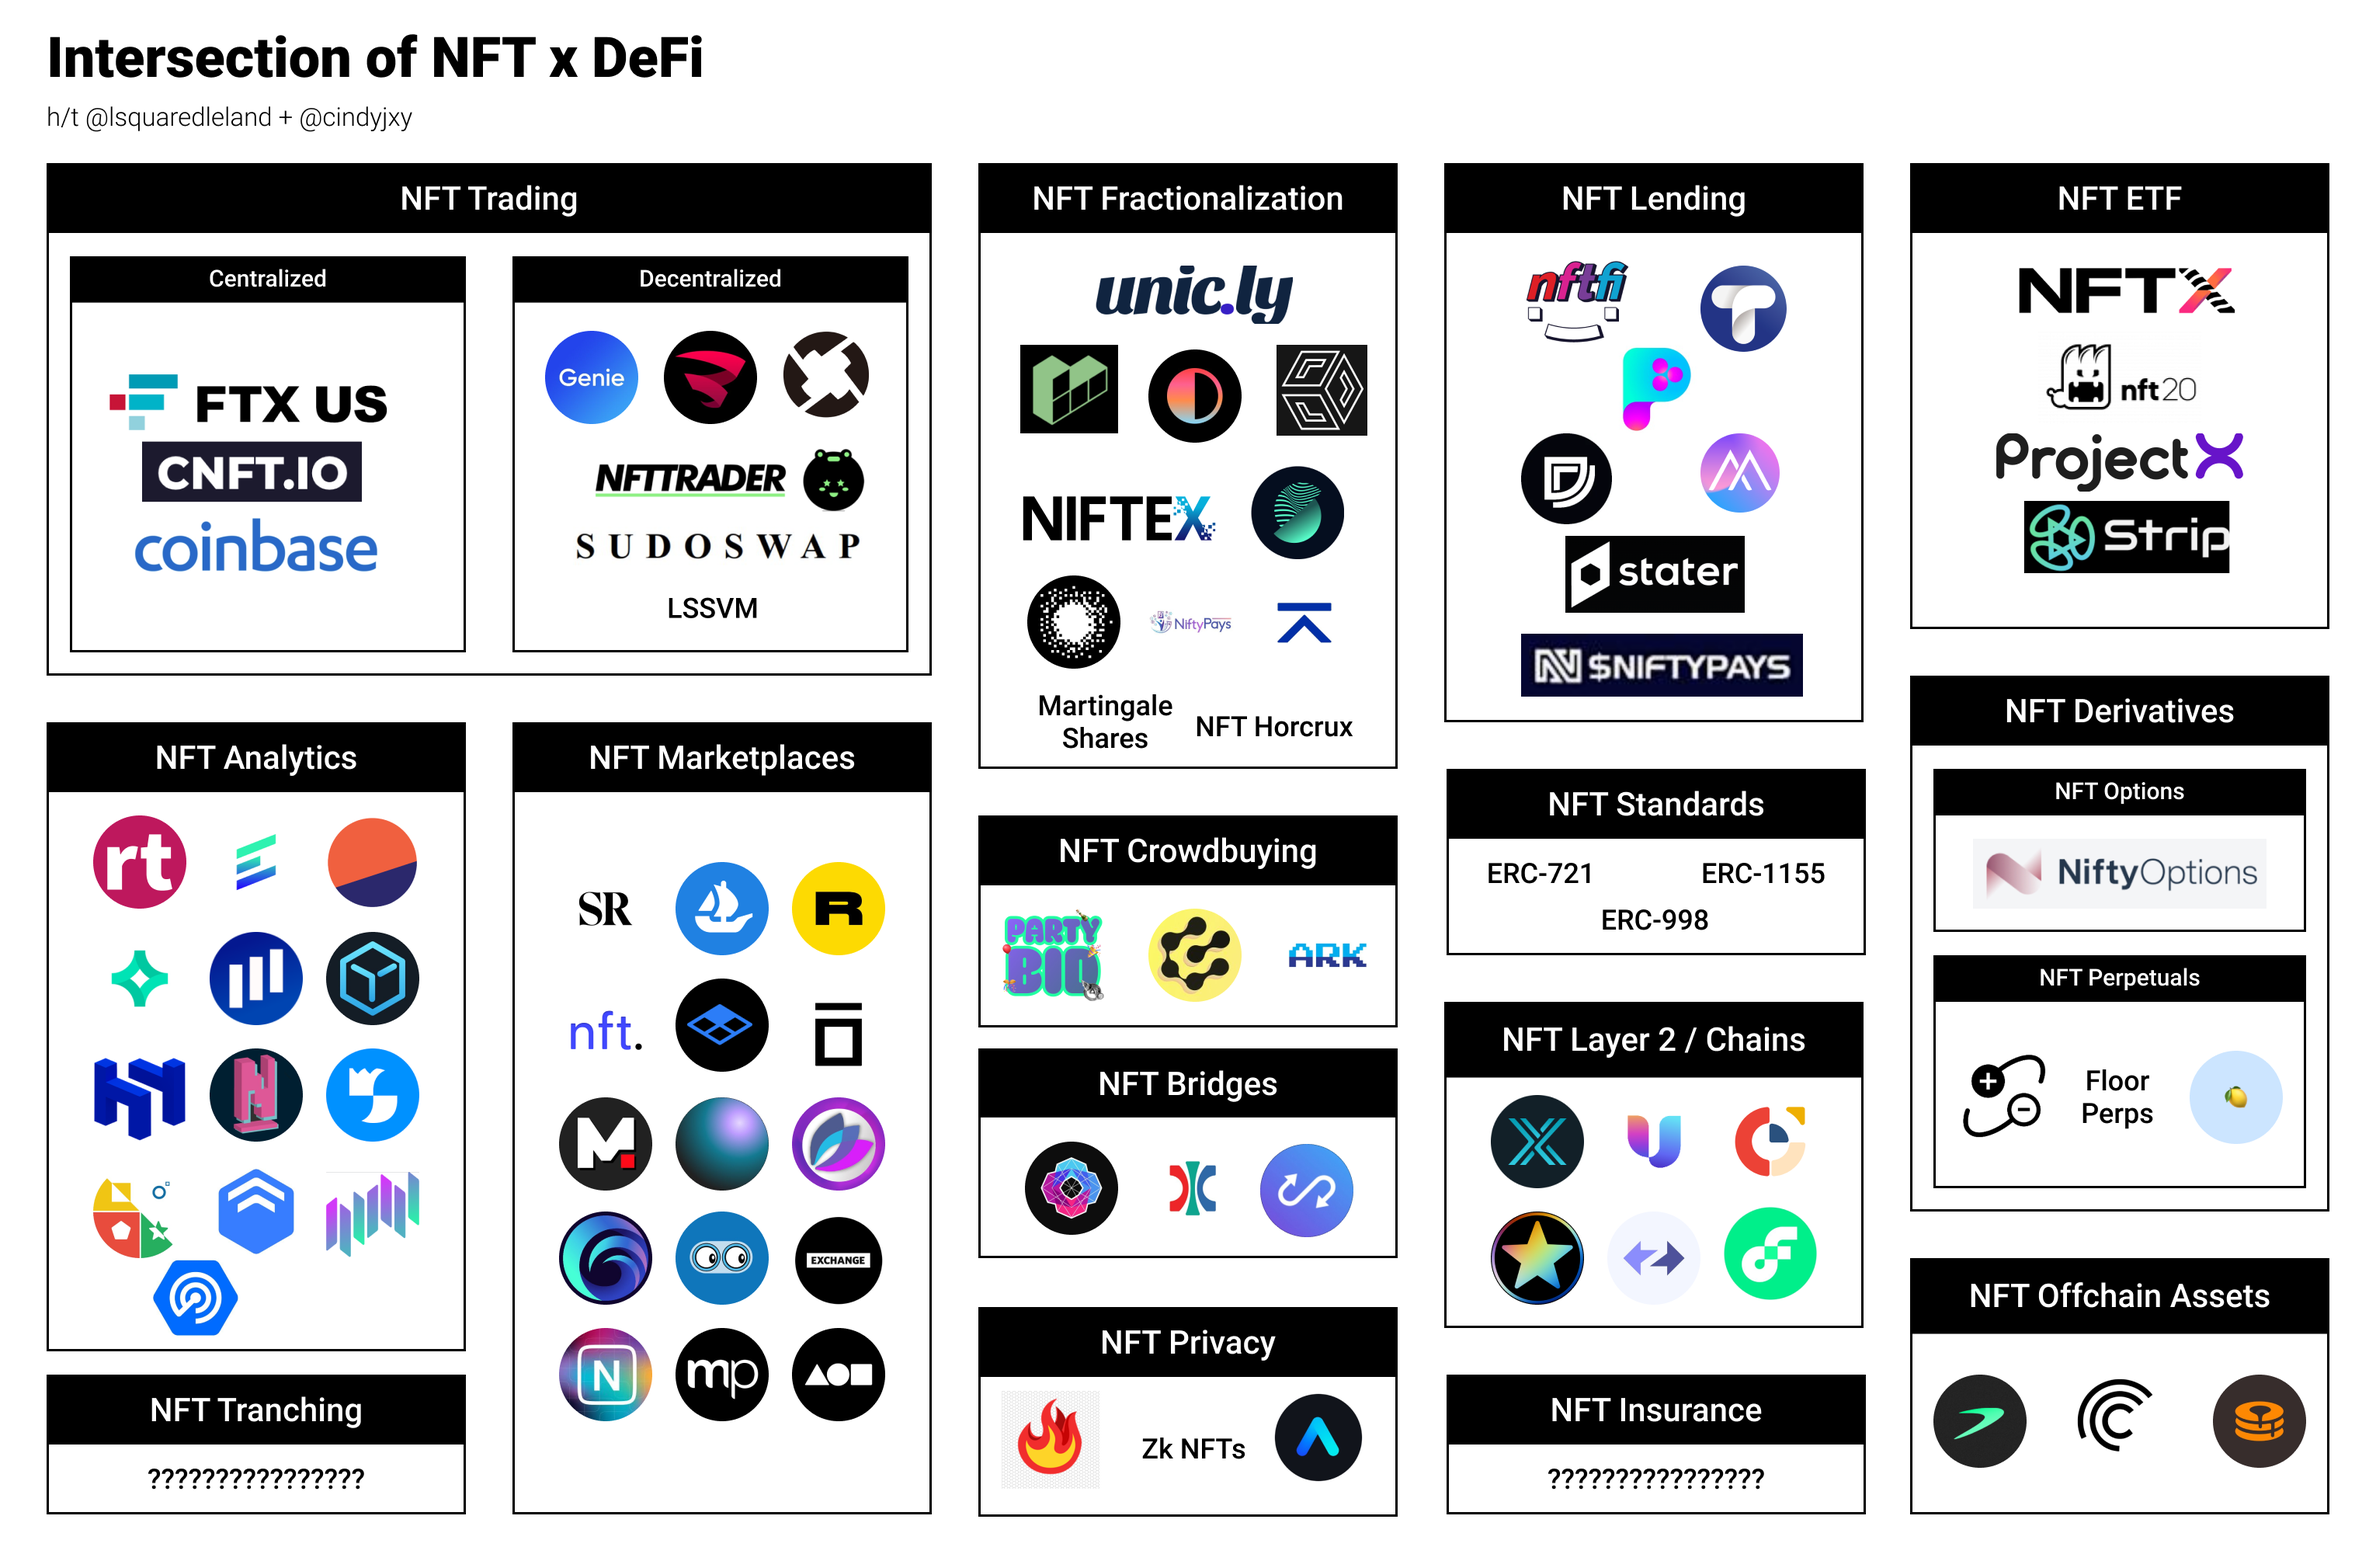
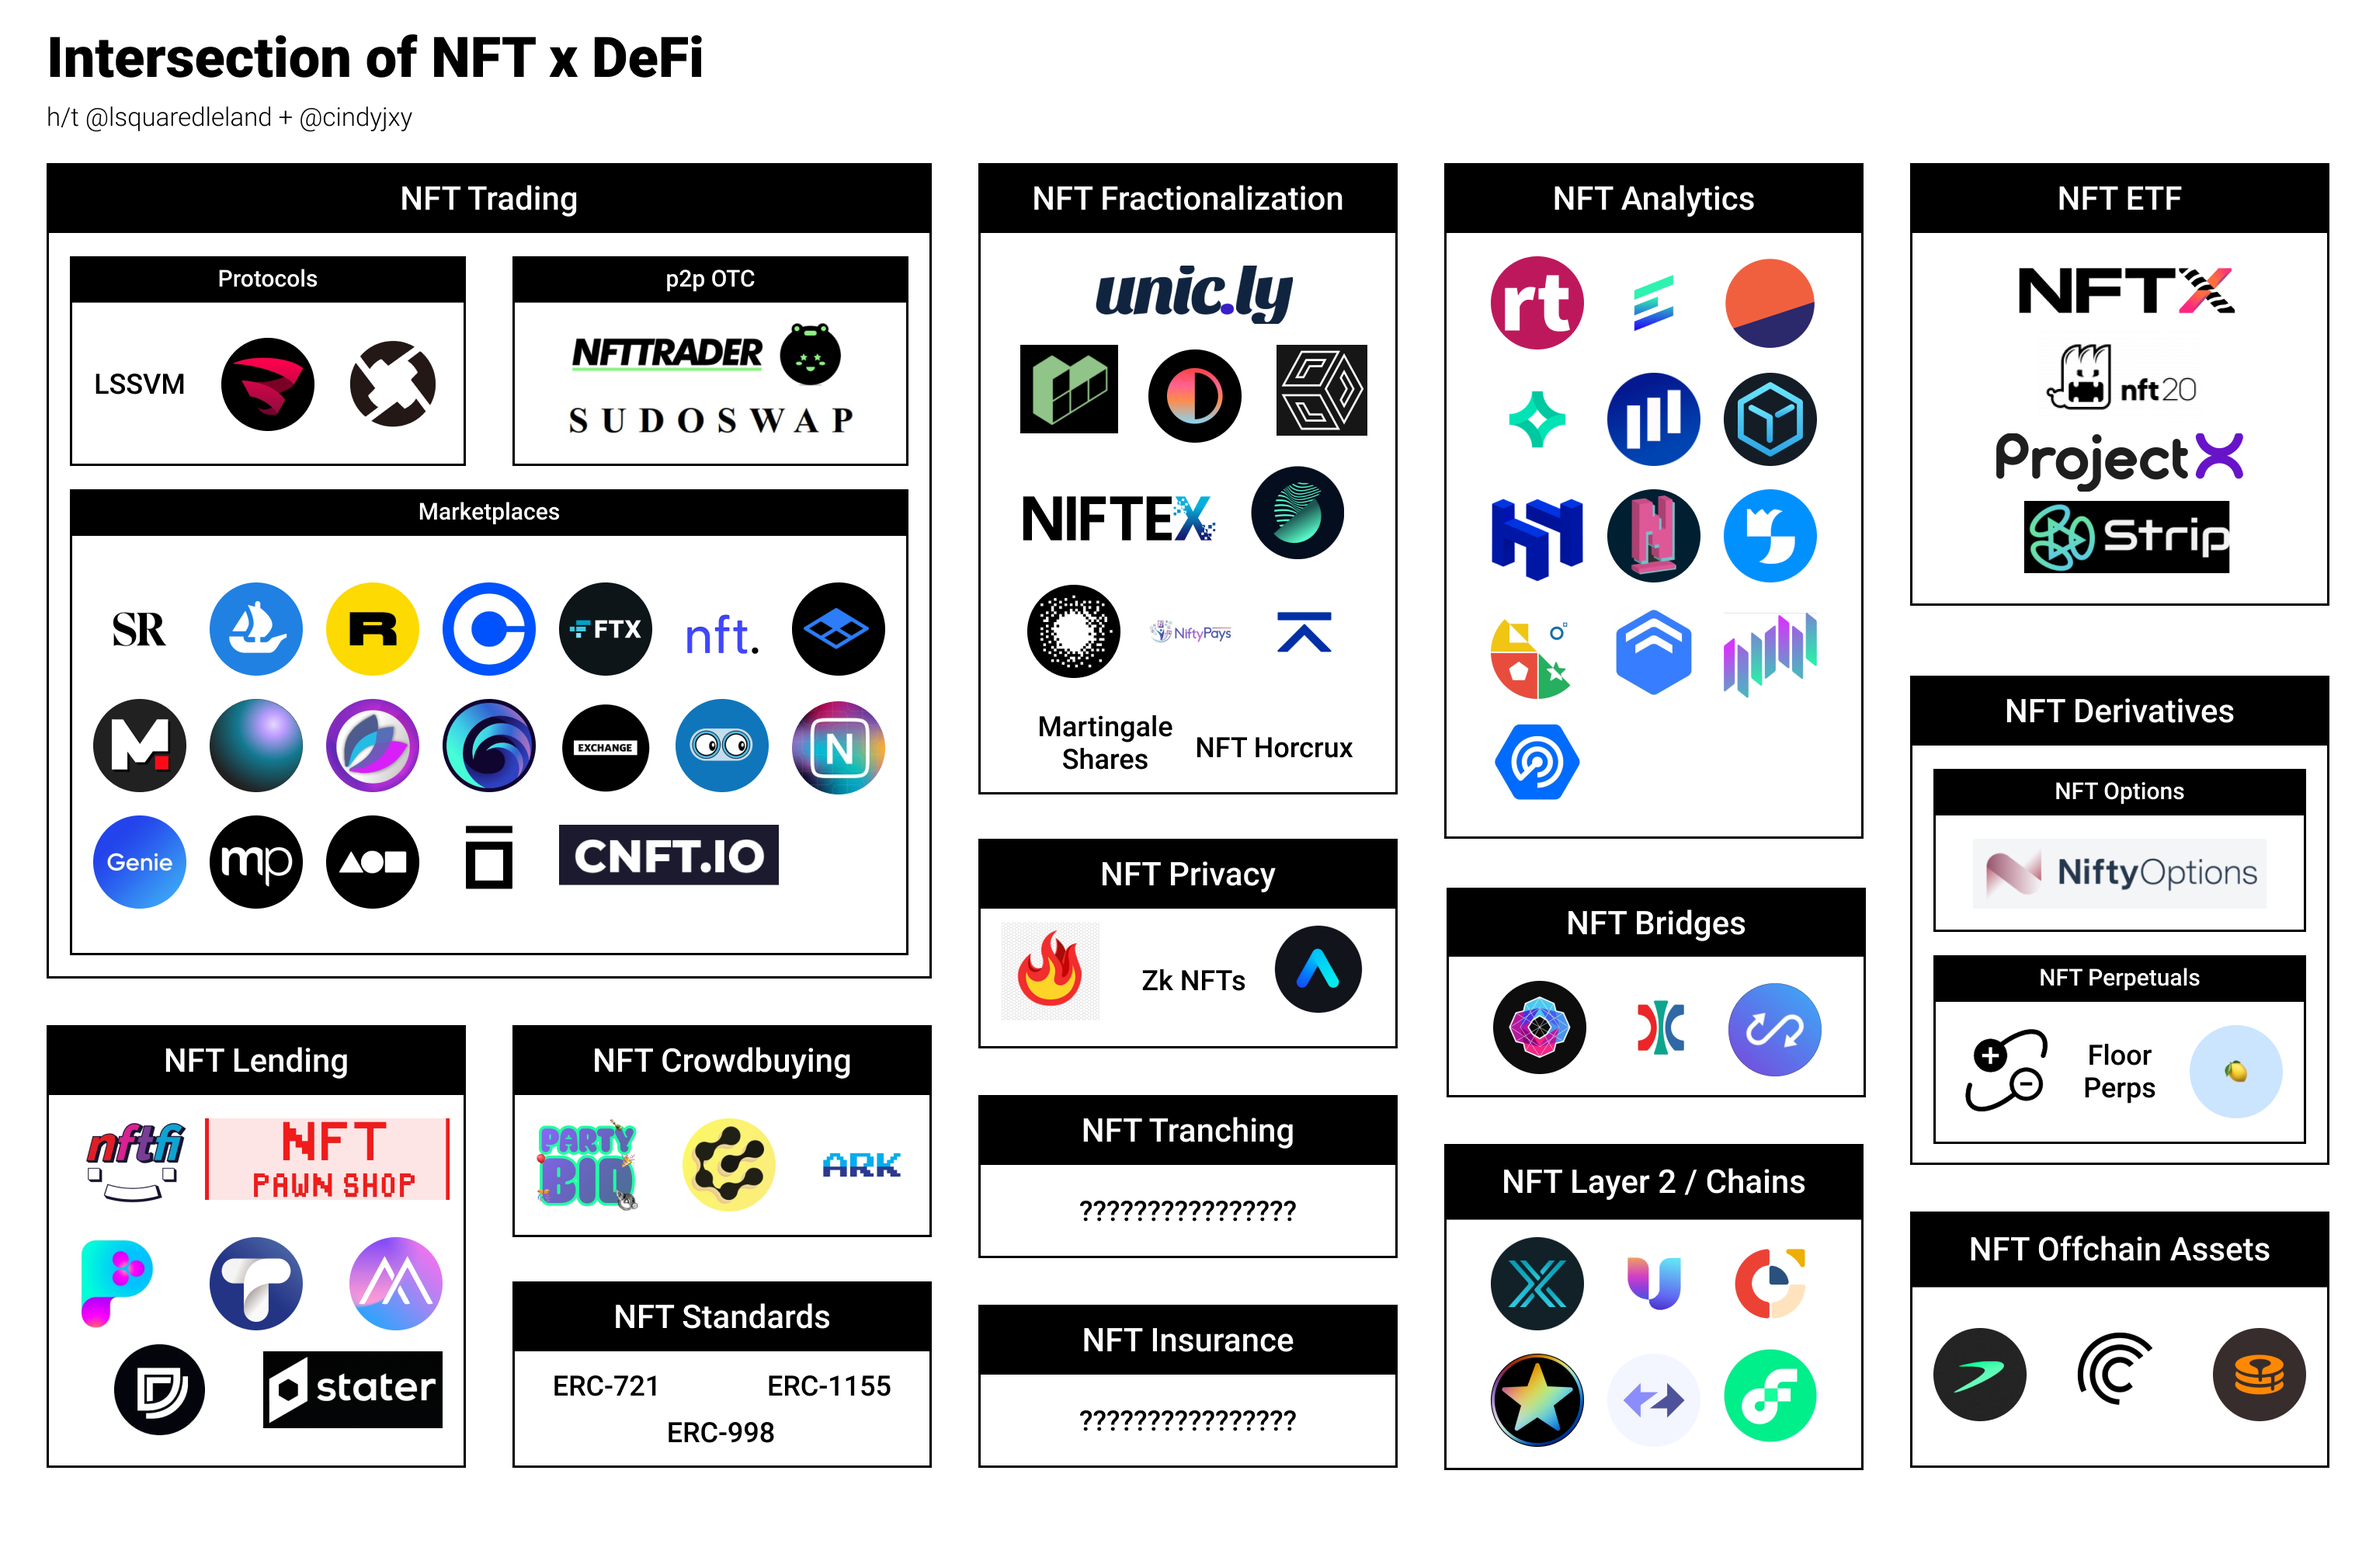
update taxonomy

Changed region(s): [[0.0, 0.1234, 0.9935, 0.9562], [0.2794, 0.1542, 0.3415, 0.1851], [0.0931, 0.1542, 0.1242, 0.1851]]

diff --git a/README.md b/README.md
@@ -6,31 +6,31 @@ Large list of NFT DeFi projects, with a questionable taxonomy and grouping
 
 | Category              | Sub Category   | Name              | Twitter          | Link                                                |
 |-----------------------|----------------|-------------------|------------------|-----------------------------------------------------|
-| NFT Trading           | Centralized    | FTX.US            | @FTX_Official    | https://ftx.com/en/nfts                             |
-| NFT Trading           | Centralized    | CNFT              | @CNFT_IO         | https://cnft.io/                                    |
-| NFT Trading           | Centralized    | Coinbase          | @Coinbase_NFT    | https://coinbase.com/                               |
-| NFT Trading           | Decentralized  | LSSVM             |                  | https://0xmons.xyz/assets/nftamm.pdf                |
-| NFT Trading           | Decentralized  | 0x Native         | @0xProject       | https://0x.org/                                     |
-| NFT Trading           | Decentralized  | NFT Trader        | @NftTrader       | https://www.nfttrader.io/                           |
-| NFT Trading           | Decentralized  | Sudoswap          | @sudoswap        | https://sudoswap.xyz/#/                             |
-| NFT Trading           | Decentralized  | Genie             | @genie_xyz       | https://genie.xyz                                   |
-| NFT Trading           | Decentralized  | Burnt             | @burntfinance    | https://www.burnt.com/                              |
-| NFT Marketplace       |                | Opensea           | @opensea         | https://opensea.io/                                 |
-| NFT Marketplace       |                | Rarible           | @rarible         | https://rarible.com/                                |
-| NFT Marketplace       |                | SuperRare         | @SuperRare       | https://superrare.com/                              |
-| NFT Marketplace       |                | Zora              | @ourZORA         | https://zora.co/                                    |
-| NFT Marketplace       |                | Shoyu NFT         | @SHOYU_NFT       | https://www.shoyunft.com/                           |
-| NFT Marketplace       |                | Artion            |                  | https://artion.io/                                  |
-| NFT Marketplace       |                | Nifty Gateway     | @niftygateway    |  https://niftygateway.com/                          |
-| NFT Marketplace       |                | Foundation        | @withFND         |  foundation.app                                     |
-| NFT Marketplace       |                | Makersplace       | @makersplaceco   |  https://makersplace.com/                           |
-| NFT Marketplace       |                | Mintable          | @mintable_app    |  https://mintable.app/                              |
-| NFT Marketplace       |                | Infinity          | @infinitydotxyz  | https://infinity.xyz/                               |
-| NFT Marketplace       |                | Solanart          | @SolanartNFT     | https://solanart.io/                                |
-| NFT Marketplace       |                | Magic Eden        | @MagicEden_NFT   | https://magiceden.io/                               |
-| NFT Marketplace       |                | DigitalEyes       | @digitaleyesnft  | https://digitaleyes.market/                         |
-| NFT Marketplace       |                | Solsea            | @SolSeaNFT       | https://solsea.io/                                  |
-| NFT Marketplace       |                | Exchange Art      | @exchgart        | https://exchange.art/                               |
+| NFT Trading           | Protocols      | LSSVM             |                  | https://0xmons.xyz/assets/nftamm.pdf                |
+| NFT Trading           | Protocols      | 0x                | @0xProject       | https://0x.org/                                     |
+| NFT Trading           | Protocols      | Burnt             | @burntfinance    | https://www.burnt.com/                              |
+| NFT Trading           | p2p OTC        | NFT Trader        | @NftTrader       | https://www.nfttrader.io/                           |
+| NFT Trading           | p2p OTC        | Sudoswap          | @sudoswap        | https://sudoswap.xyz/#/                             |
+| NFT Trading           | Marketplace    | Genie             | @genie_xyz       | https://genie.xyz                                   |
+| NFT Trading           | Marketplace    | FTX.US            | @FTX_Official    | https://ftx.com/en/nfts                             |
+| NFT Trading           | Marketplace    | CNFT              | @CNFT_IO         | https://cnft.io/                                    |
+| NFT Trading           | Marketplace    | Coinbase          | @Coinbase_NFT    | https://coinbase.com/                               |
+| NFT Trading           | Marketplace    | Opensea           | @opensea         | https://opensea.io/                                 |
+| NFT Trading           | Marketplace    | Rarible           | @rarible         | https://rarible.com/                                |
+| NFT Trading           | Marketplace    | SuperRare         | @SuperRare       | https://superrare.com/                              |
+| NFT Trading           | Marketplace    | Zora              | @ourZORA         | https://zora.co/                                    |
+| NFT Trading           | Marketplace    | Shoyu NFT         | @SHOYU_NFT       | https://www.shoyunft.com/                           |
+| NFT Trading           | Marketplace    | Artion            |                  | https://artion.io/                                  |
+| NFT Trading           | Marketplace    | Nifty Gateway     | @niftygateway    |  https://niftygateway.com/                          |
+| NFT Trading           | Marketplace    | Foundation        | @withFND         |  foundation.app                                     |
+| NFT Trading           | Marketplace    | Makersplace       | @makersplaceco   |  https://makersplace.com/                           |
+| NFT Trading           | Marketplace    | Mintable          | @mintable_app    |  https://mintable.app/                              |
+| NFT Trading           | Marketplace    | Infinity          | @infinitydotxyz  | https://infinity.xyz/                               |
+| NFT Trading           | Marketplace    | Solanart          | @SolanartNFT     | https://solanart.io/                                |
+| NFT Trading           | Marketplace    | Magic Eden        | @MagicEden_NFT   | https://magiceden.io/                               |
+| NFT Trading           | Marketplace    | DigitalEyes       | @digitaleyesnft  | https://digitaleyes.market/                         |
+| NFT Trading           | Marketplace    | Solsea            | @SolSeaNFT       | https://solsea.io/                                  |
+| NFT Trading           | Marketplace    | Exchange Art      | @exchgart        | https://exchange.art/                               |
 | NFT ETF               |                | NFTX              | @NFTX_           | https://nftx.io/                                    |
 | NFT ETF               |                | NFT20             | @nft20trades     | https://nft20.io/                                   |
 | NFT ETF               |                | Project X         | @ProjectX_NFT    | https://www.projectxnft.com/                        |
@@ -52,6 +52,7 @@ Large list of NFT DeFi projects, with a questionable taxonomy and grouping
 | NFT Lending           |                | Drops             | @dropsnft        | https://drops.co/                                   |
 | NFT Lending           |                | Themis            | @OfficialThemis  | https://themis.exchange/                            |
 | NFT Lending           |                | NiftyPays         | @Nifty_pays      | https://www.niftypays.com/                          |
+| NFT Lending           |                | NFT Pawn Shop     | @NFTPawnShop     |                                                     |
 | NFT Analytics         |                | Rarity.tool       | @raritytools     | https://rarity.tools/                               |
 | NFT Analytics         |                | Evaluate.market   | @EvaluateMarket  | https://evaluate.market                             |
 | NFT Analytics         |                | Nansen.ai         | @nansen_ai       | https://www.nansen.ai/                              |
@@ -92,20 +93,3 @@ Large list of NFT DeFi projects, with a questionable taxonomy and grouping
 | NFT Bridges           |                | Anyswap           | @AnyswapNetwork  | https://anyswap.exchange/                           |
 | NFT Insurance         |                |                   |                  |                                                     |
 | NFT Tranching         |                |                   |                  |                                                     |
-
-### Taxonomy Definition
-
-* _NFT Trading_ - how users trade NFTs with each other, a mix of p2p and AMM based trading
-* _NFT Marketplaces_ - unlike trading, these applications focus on discovery and the creation of NFTs alongside the ability to buy and sell.
-* _NFT Fractionalization_ - Converting NFTs into a tokenized representation
-* _NFT Lending_ - Borrowing against one’s NFTs and providing liquidity to earn yield
-* _NFT ETFs_ - Basket of NFTs and indices of arbitrary NFT collections
-* _NFT Perpetuals_ - Instead of trading individual NFTs, now trade a liquid synthetic representation of a collection of NFTs
-* _NFT Options_ - The ability to buy or sell an option on an NFT. Sell covered calls for passive income or speculate on the future price with options in a capital efficient manner
-* _NFT Crowd Buying_ - Enabling a group of individuals to buy NFTs together
-* _NFT Insurance_ - Underwriting the value of an NFT in case a protocol is hacked
-* _NFT Chains / L2s_ - Specific chains and L2s that are NFT first
-* _NFT Bridges_ - Connecting NFTs with multiple blockchains, potentially moving them to places with more sophisticated auction protocols or more liquid DeFi opportunities.
-* _NFT Privacy_ - Making NFTs private, either the data or the ownership
-* _NFT Analytics_ - helping people understand the what is happening within an NFT collection
-
